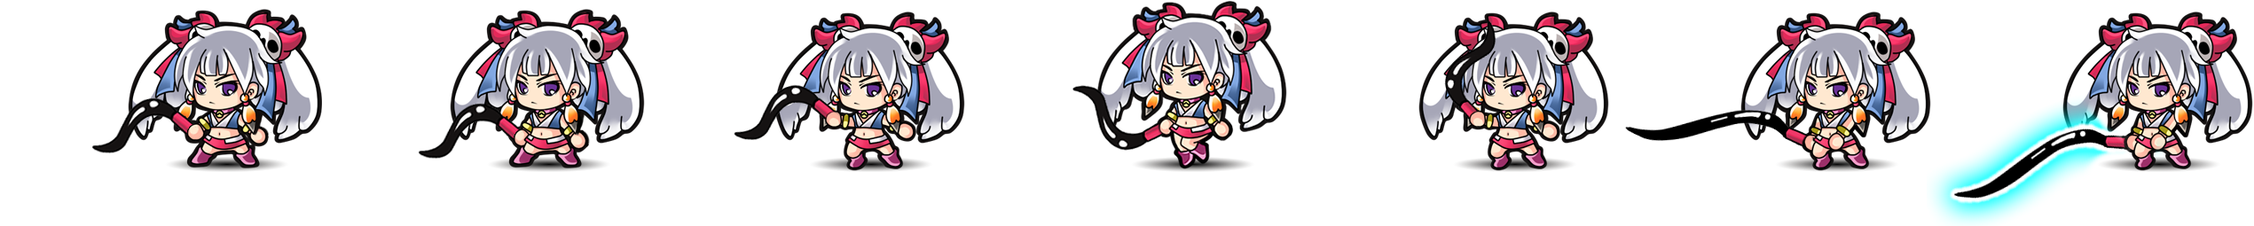
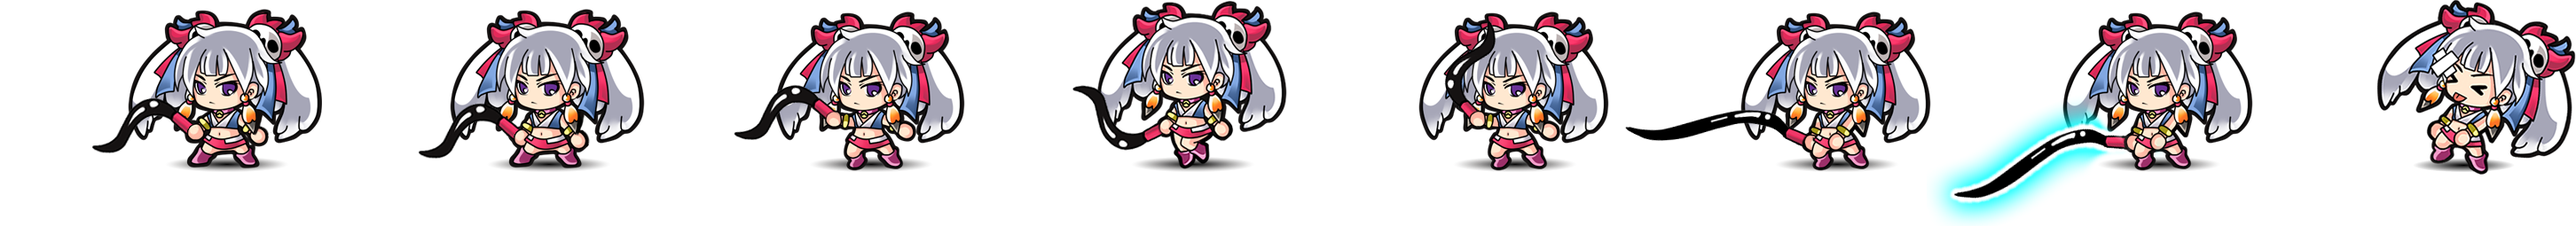
Added Boss stage2 	modified:   development/js/g_data.js 	modified:   development/js/master.js 	modified:   development/js/role.js 	modified:   development/js/states.js 	modified:   development/resources/images/GO.png 	new file:   development/resources/images/monster/boss_2.png 	modified:   developme

diff --git a/development/js/master.js b/development/js/master.js
@@ -1,7 +1,38 @@
 /* 怪物类 */
 Laro.register('PD', function (La) {
-
-    //Boss大招1
+	//Boss第二形态
+    this.Boss2_Skill_Extracting=La.BaseState.extend(function(){}).methods(
+		{
+			enter:function (msg, fromState) {
+                this.anim = this.host.getAnimation('boss_2_skill');
+                this.anim.play();
+                this._t = 0;
+            },
+            leave:function(){},
+			update:function (dt) {
+                this._t += dt;
+                this.anim.renderMirrored = (this.host.x < this.host.targetrole.x);
+                this.anim.update(dt);
+            },
+            draw:function (render) {
+                this.anim.draw(render, this.host.x, this.host.y, 0, 1, null);
+            },
+            transition:function () {
+                if(this._t>1){
+					PD.$role.fsm.setState(2, {
+                      attack:300,
+                      roleFace:(this.host.x > PD.$role.x) // 为true时，人面向右
+                });
+				PD.$role2.fsm.setState(2, {
+                      attack:300,
+                      roleFace:(this.host.x > PD.$role2.x) // 为true时，人面向右
+                });
+				this.host.setState(0);
+				}
+            }
+	}
+	);
+	//Boss大招1
 	this.Boss_Skill_Extracting=La.BaseState.extend(
         function () {
 
@@ -26,11 +57,11 @@ Laro.register('PD', function (La) {
 					this.anim2[i].update(dt);
 				}
 				PD.$role.fsm.setState(2, {
-                      attack:10,
+                      attack:5,
                       roleFace:(this.host.x > PD.$role.x) // 为true时，人面向右
                 });
 				PD.$role2.fsm.setState(2, {
-                      attack:10,
+                      attack:5,
                       roleFace:(this.host.x > PD.$role2.x) // 为true时，人面向右
                 });
             },
@@ -67,7 +98,17 @@ Laro.register('PD', function (La) {
                 this.anim.draw(render, this.host.x, this.host.y, 0, 1, null);
             },
             transition:function () {
-                if(this._t>5){this.host.setState(0);}
+                if(this._t>1){
+					PD.$role.fsm.setState(2, {
+                      attack:200,
+                      roleFace:(this.host.x > PD.$role.x) // 为true时，人面向右
+                });
+				PD.$role2.fsm.setState(2, {
+                      attack:200,
+                      roleFace:(this.host.x > PD.$role2.x) // 为true时，人面向右
+                });
+				this.host.setState(0);
+				}
             }
 			}
 		);
@@ -101,8 +142,8 @@ Laro.register('PD', function (La) {
 				var role = PD.$role;
 				//;
                 this.dis = Math.sqrt(Math.pow(role.x - this.host.x, 2) + Math.pow(role.y - this.host.y, 2));
-				//假如人物2存在
-				if(PD.$role2){
+				//假如人物2存在并且活着
+				if(PD.$role2&&PD.$role2.nowLife>=0){
 				var role = PD.$role2;	
 				this.dis2 = Math.sqrt(Math.pow(role.x - this.host.x, 2) + Math.pow(role.y - this.host.y, 2));
 					this.dis=this.dis>=this.dis2?this.dis2:this.dis;
@@ -342,6 +383,17 @@ Laro.register('PD', function (La) {
 		6, this.Boss_Skill_Extracting,
 		7, this.Boss_Skill2_Extracting
 	];
+	//BOSS第二形态的状态列表
+	var statesList3=[
+		0, this.M_Wait,
+        1, this.M_Run,
+        2, this.M_Attacked,
+        3, this.M_Beattacked,
+        4, this.M_Dead,
+        5, this.GoNext,
+		6, this.Boss2_Skill_Extracting,
+		7, this.Boss_Skill_Extracting
+	];
     //怪物的随机种类
     var masterCat = 0;
     var getMasterCatId = function(){
@@ -464,8 +516,7 @@ Laro.register('PD', function (La) {
 		this.Boss=this.Master.extend(function(){
 			this.fsm = new La.AppFSM(this, statesList2);
             this.speed = 0.5;
-		}).methods({
-			
 		});
 		
+		this.Boss2=this.Boss.extend(function(){this.fsm = new La.AppFSM(this, statesList3);});
 });

diff --git a/development/js/states.js b/development/js/states.js
@@ -56,6 +56,7 @@ Laro.register('PD.$states', function (La) {
                     'images/monster/boss_left.png',
 					'images/monster/boss_lightning.png',
 					'images/monster/boss_skill1.png',
+					'images/monster/boss_2.png',
 					
 					'images/skillanim/role_recover.png',
 					'images/skillanim/role_defense.png',
@@ -108,9 +109,10 @@ Laro.register('PD.$states', function (La) {
             },
             transition:function () {
                 if (this.done && this.doneT >= 0 && this._t > this.doneT + this.delayAfter) {
-                    //this.host.setState(3);
-                    //调试用，把前面的四格漫画屏蔽了
-                    this.host.setState(5);
+                    this.host.setState(3);
+                    
+					//调试用，把前面的四格漫画屏蔽了
+                    //this.host.setState(9);
                 }
             }
         });
@@ -595,9 +597,8 @@ Laro.register('PD.$states', function (La) {
 				
 				//设置每隔十二秒放一次大招
 				PD.$boss.setState(0);
-				setInterval('PD.$boss.setState(6)',12000);
 
-                this.createMonsters(3);
+                //this.createMonsters(3);
 
                 // add skill icon
                 PD.curRole = 'one';
@@ -639,7 +640,17 @@ Laro.register('PD.$states', function (La) {
 
             },
             update:function (dt) {
-                this._t += 0;
+                this._t += dt;
+				if(this._t>6){
+					if(Math.random()*2>1){
+						PD.$boss.setState(6);
+					}
+					else
+					{
+						PD.$boss.setState(7);
+					}
+				this._t=0;	
+				}
                 PD.$role.update(dt);
                 PD.$role2.update(dt);
                 PD.$boss.update(dt);
@@ -703,6 +714,10 @@ Laro.register('PD.$states', function (La) {
             enter:function (msg, fromState) {
                 next_tag = 8;//将下一场景设置为漫画三
                 this._t = 0;
+				PD.skillHash = {
+			        'one':['skill1', 'skill2', 'skill3'],
+			        'two':['skill4', 'skill5']
+			    };
                 //get resources 放在全局 PD 里，以便其他类调用
                 PD.textures['map1'] = PD.$res.getImage('map1');
                 PD.textures['map2'] = PD.$res.getImage('map2');
@@ -724,9 +739,9 @@ Laro.register('PD.$states', function (La) {
                 PD.$role2 = new PD.Role2('$role2', 500, 400,'two');
                 PD.$role2.setState(0);
 
-                PD.$boss = new PD.Boss(800, 400);
-				PD.$boss.id='boss';
-				PD.$boss.heath = PD.$boss.fullHeath = 2000;
+                PD.$boss = new PD.Boss2(800, 400);
+				PD.$boss.id='boss_2';
+				PD.$boss.heath = PD.$boss.fullHeath = 3000;
 				PD.$boss.attack= 80;
                 PD.$boss.bloodBarW = 200;
                 PD.$boss.bloodBarOffset = -80;

diff --git a/development/js/g_data.js b/development/js/g_data.js
@@ -45,7 +45,59 @@ g_data = {
 			],
 			filename: 'images/pie.png'
 		},
-		
+		//妖女第一形态被打
+		//妖女第二形态放技能
+		"boss_2_skill": {
+        "info": {
+        "nbrOfFrames": 2,
+        "type": "animation",
+        "framerate": 4,
+        "pivotx": 125,
+        "pivoty": 92,
+        "events": []
+        },
+       "data": [
+        [753,0,1003,183,753,0,1003,183],
+        [1004,0,1254,183,1004,0,1254,183],
+        //[1255,0,1505,183,1255,0,1505,183]
+        ],
+       "filename": "images/monster/boss_2.png"
+},
+		//妖女第二形态挨打
+		"boss_2_attacked": {
+        "info": {
+        "nbrOfFrames": 2,
+        "type": "animation",
+        "framerate": 4,
+        "pivotx": 125,
+        "pivoty": 92,
+        "events": []
+        },
+       "data": [
+        [1255,0,1505,183,1255,0,1505,183],
+		[1255,0,1505,183,1255,0,1505,183]
+        ],
+       "filename": "images/monster/boss_2.png"
+},
+		"boss_2": {
+        "info": {
+        "nbrOfFrames": 3,
+        "type": "animation",
+        "framerate": 4,
+        "pivotx": 125,
+        "pivoty": 92,
+        "events": []
+        },
+       "data": [
+        [0,0,250,183,0,0,250,183],
+        [251,0,501,183,251,0,501,183],
+        [502,0,752,183,502,0,752,183],
+        //[753,0,1003,183,753,0,1003,183],
+        //[1004,0,1254,183,1004,0,1254,183],
+        //[1255,0,1505,183,1255,0,1505,183]
+        ],
+       "filename": "images/monster/boss_2.png"
+},
 		// 人物周围的法术效果
 		"role_recover": {
 			"info": {

diff --git a/development/js/role.js b/development/js/role.js
@@ -5,7 +5,8 @@ Laro.register('PD', function (La) {
 		enter:function (msg, fromState) {
                 console.log('dead');
                 this._t = 0;
-				//从舞台移除当前人物
+				
+				//大侠死亡则游戏结束
                 if (PD.$role.nowLife <= 0) {
 					//清除技能列表
 					for (var i = 0; i < PD.stage.children.length; i++) {
